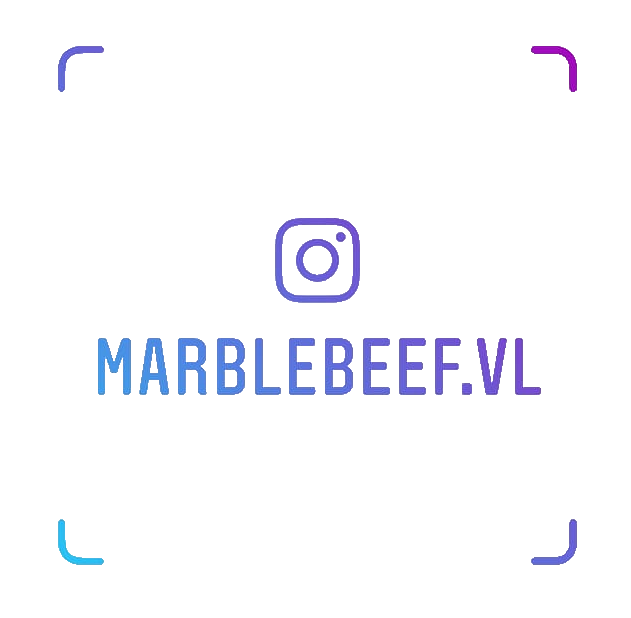
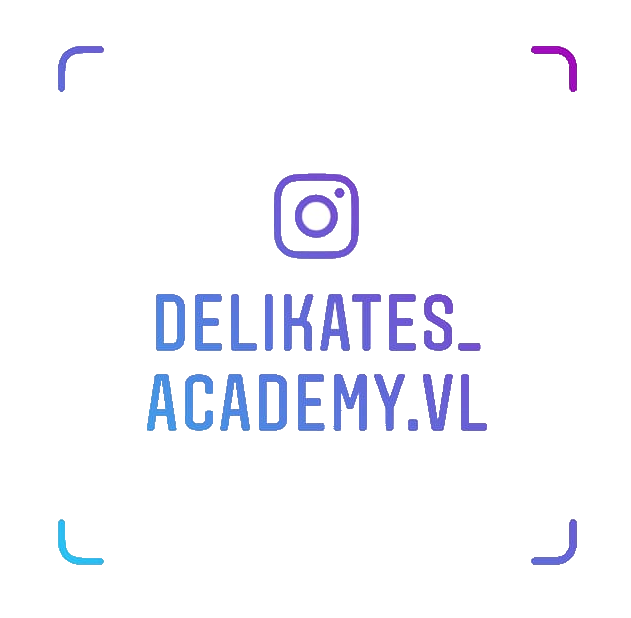
аа

Changed region(s): [[0.1506, 0.2767, 0.8732, 0.7071]]

diff --git a/index.html b/index.html
@@ -1,5 +1,5 @@
 <!DOCTYPE html>
-<html lang="en">
+<html lang="ru">
 <head>
     <meta charset="UTF-8">
     <meta name="viewport" content="width=device-width, initial-scale=1.0">
@@ -55,9 +55,9 @@
       <a name="contact"><h1 class="c">Контакты</h1></a>
       <a class = "QR" href="https://www.instagram.com/marblebeef.vl?r=nametag" target="_blank"><img src="images/inst.png" width="40px" alt="Instagram"></a>
         <ul>
-            <li class="firstContact"><a href="https://www.instagram.com/marblebeef.vl?r=nametag" target="_blank"><img src="images/insta.png" alt="Insta"><p>marblebeef.vl</p></a></li>
+            <li class="firstContact"><a href="https://www.instagram.com/delikates_academy.vl?r=nametag" target="_blank"><img src="images/insta.png" alt="Insta"><p>delikates_academy.vl</p></a></li>
             <li><a href="https://wa.me/79147386368" target="_blank"><img src="images/whats.png" alt="whatsApp"><p>+7(914)7386368</p></a></li>
-            <li><a href="mailto:89147386368@mail.ru" target="_blank"><img src="images/mail.png" alt="Mail"><p>89147386368@mail.ru</p></a></li>
+            <li><a href="mailto:delikates-academy@mail.ru" target="_blank"><img src="images/mail.png" alt="Mail"><p>delikates-academy@mail.ru</p></a></li>
         </ul>
     </div>
     <footer>
